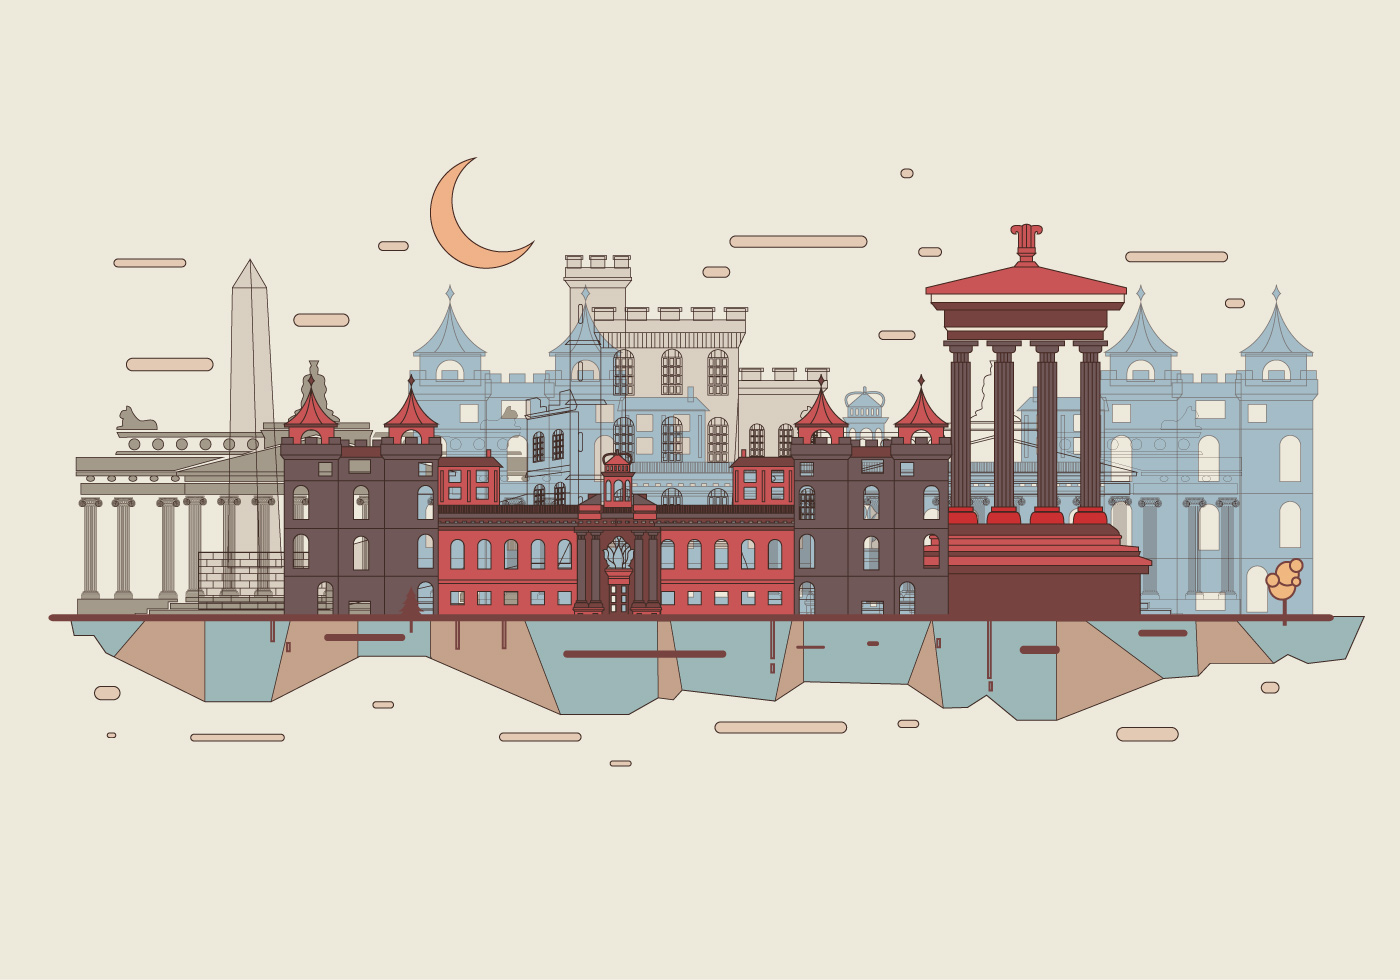
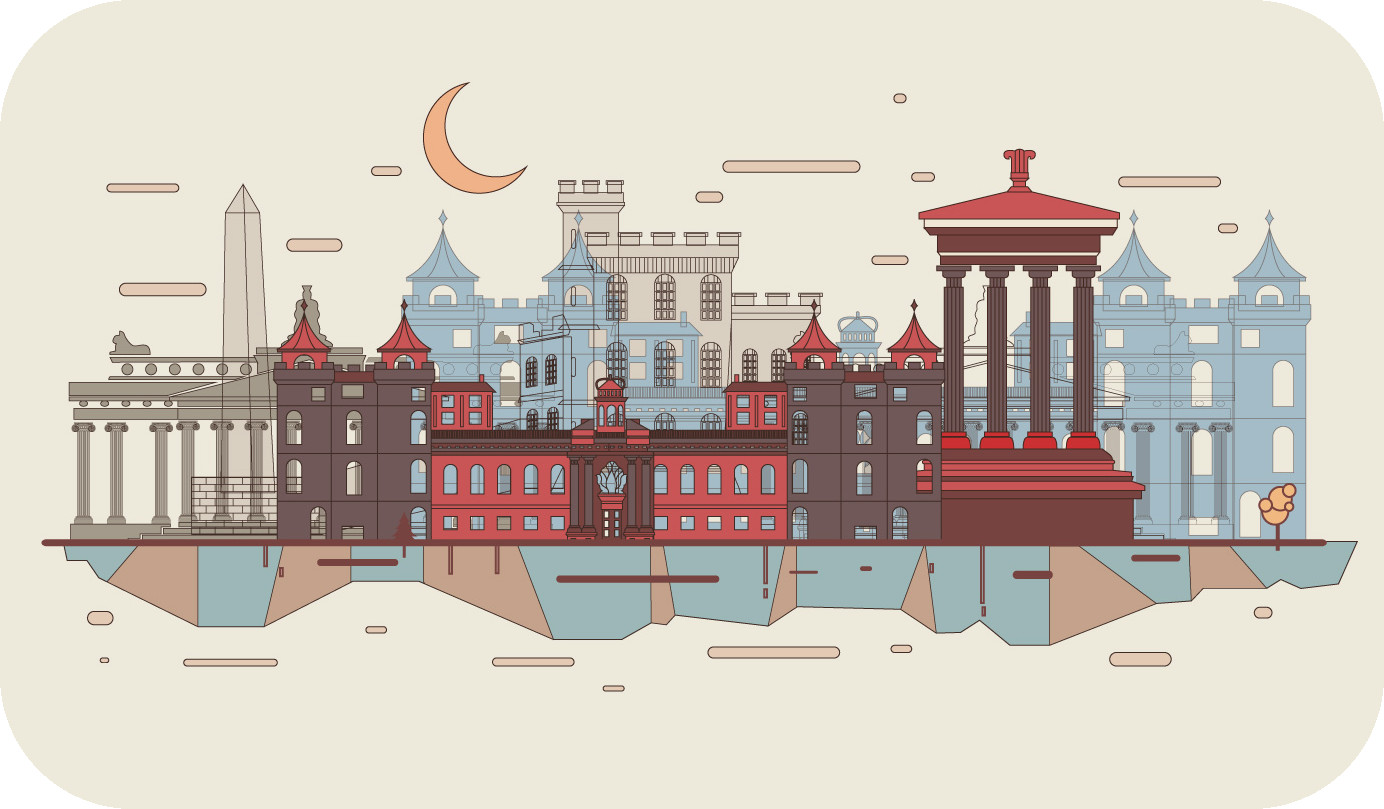
home and background image

diff --git a/public/stylesheets/home.css b/public/stylesheets/home.css
@@ -7,7 +7,7 @@ body {
 .home-container {
   width: 100%;
   height: 100vh;
-  background-image: url("/assets/skyline.jpg");
+  background-image: url("/assets/skyline.png");
   background-size: 70vh;
   background-position: 25% 60% ;
   background-repeat: no-repeat;
